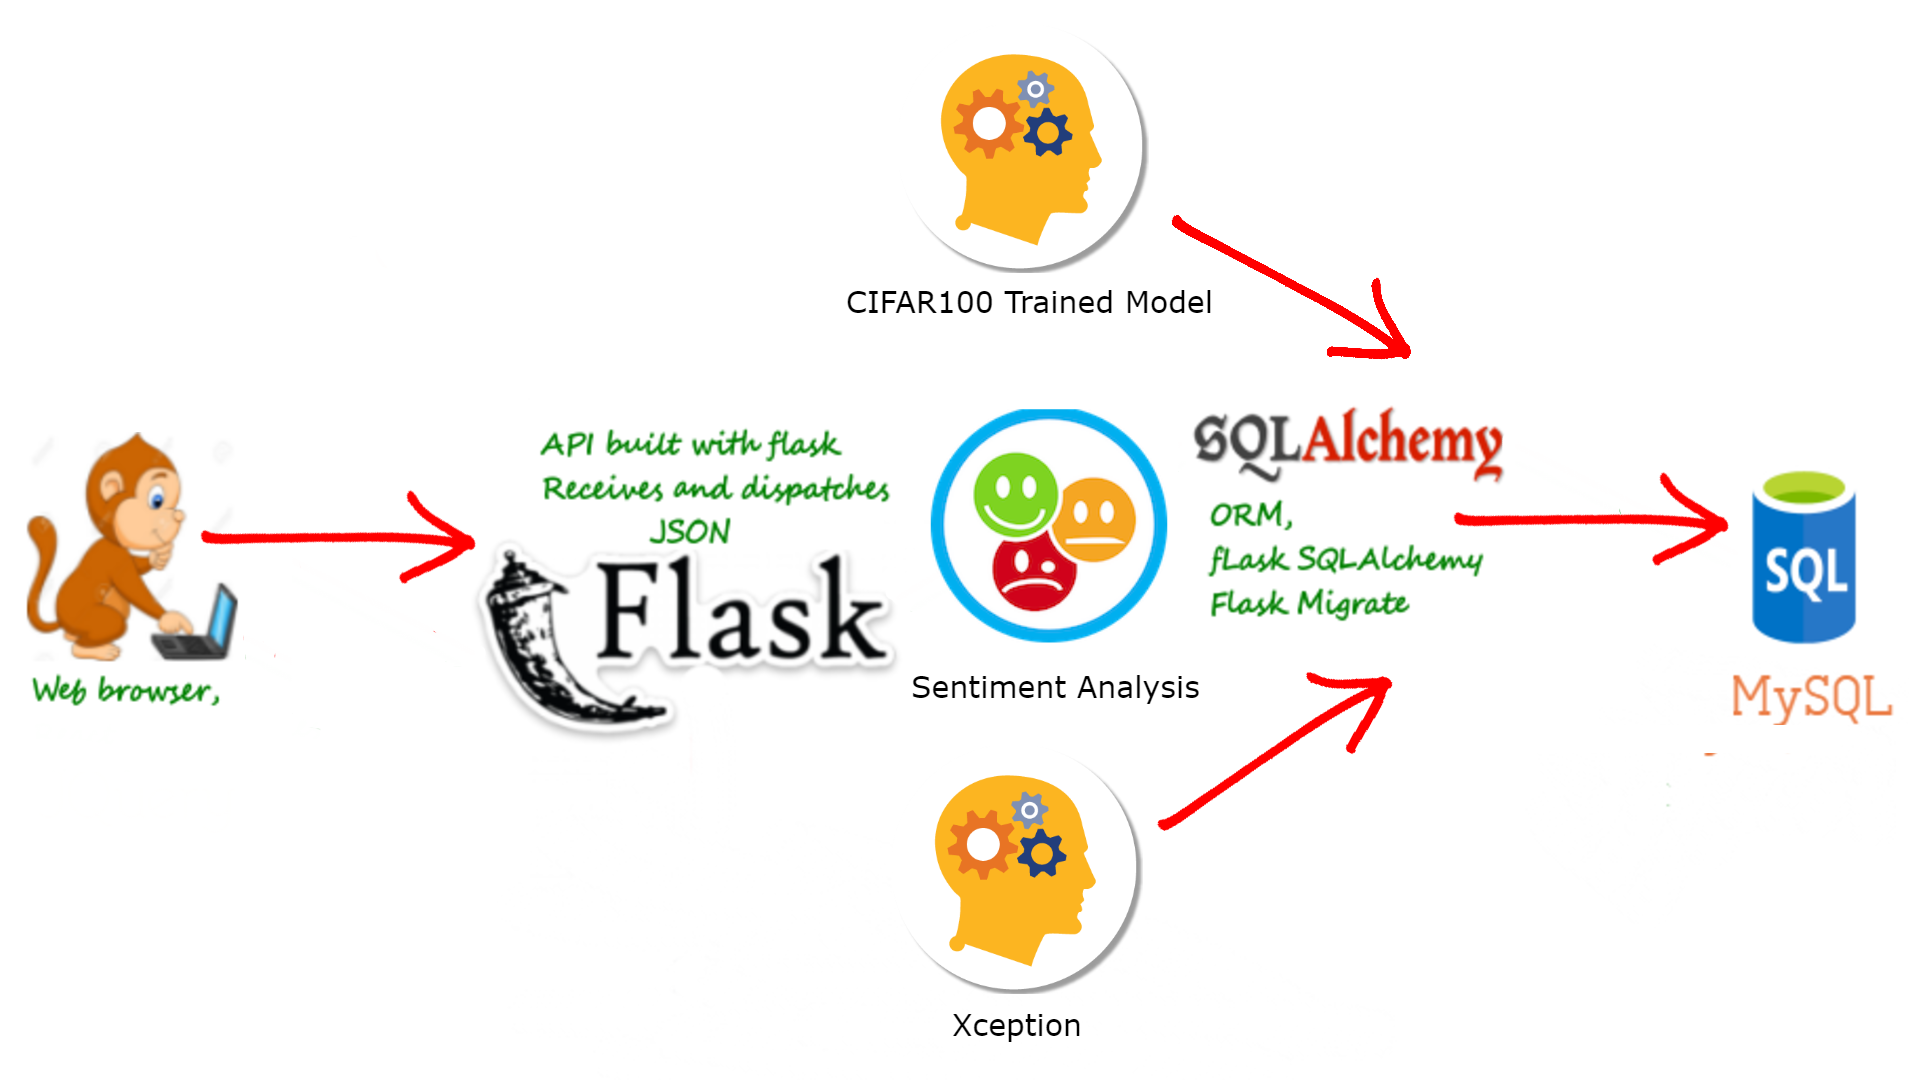
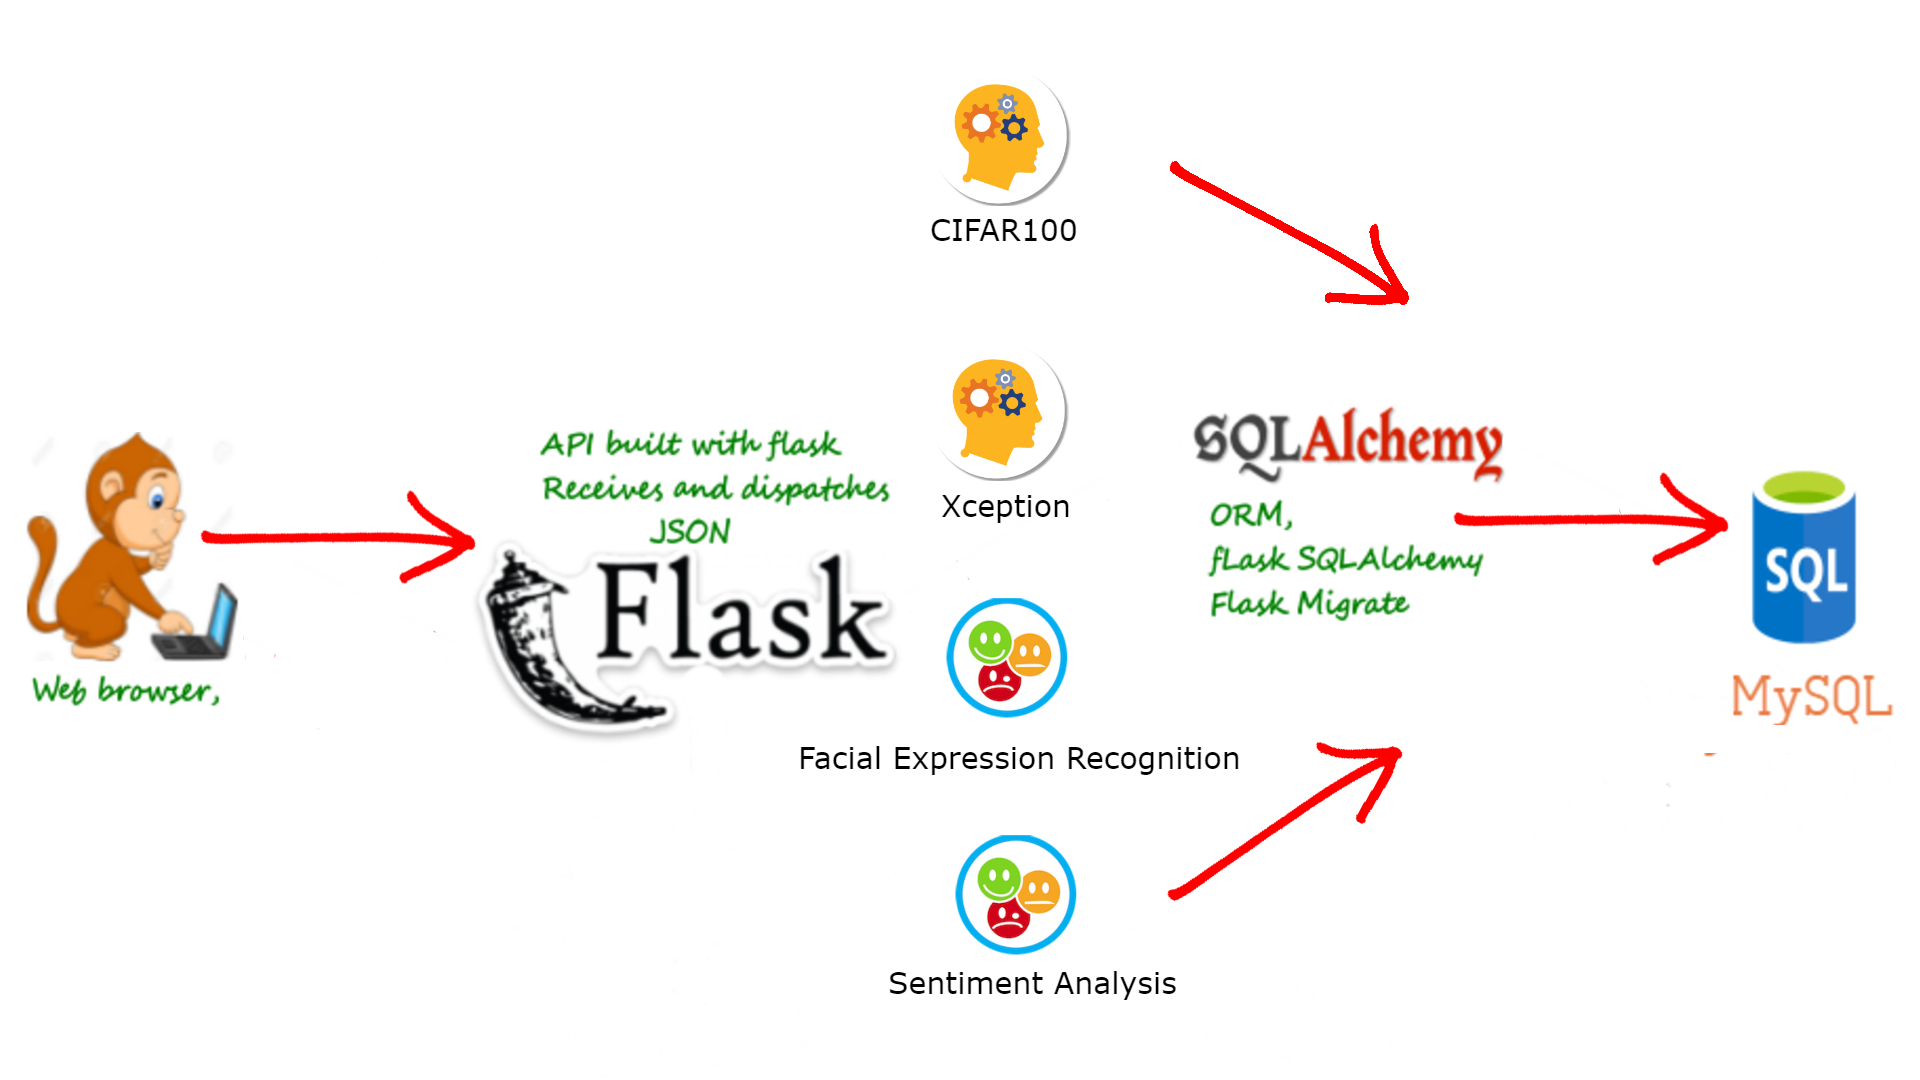
facialExpressionRecognition

Changed region(s): [[0.4375, 0.3361, 0.75, 0.9778], [0.4375, 0.0306, 0.75, 0.3361]]

diff --git a/templates/index.html b/templates/index.html
@@ -108,6 +108,8 @@
                   <span>{{ tweet.imagetypeCifar }}</span></p>
                 <p class="category">Xception:<br/>
                   <span>{{ tweet.imagetypeXception }}</span></p>
+                <p class="category">Face Emotion:<br/>
+                  <span>{{ tweet.facialEmotion }}</span></p>
 
                 <input class="btn btn-block btn-primary" type="button" value="Tweet"
                   onclick="sendTweet('{{ tweet.id }}'); return false;"

diff --git a/facialExpressionRecognition.py b/facialExpressionRecognition.py
@@ -1,0 +1,58 @@
+from keras.models import load_model
+from PIL import Image
+import cv2
+import numpy as np
+
+#Defining labels 
+class facialExpressionRecognition(object):
+    def __init__(self):
+         #Loading pre-trained model
+        self.pretrained_model = load_model("Resources/fer2013_mini_XCEPTION.99-0.65.hdf5")
+
+    def get_label(self, argument):
+        labels = {0:'Angry', 1:'Disgust', 2:'Fear', 3:'Happy', 4:'Sad' , 5:'Surprise', 6:'Neutral'}
+        return(labels.get(argument, "Invalid emotion"))
+
+    # Refactor above steps into reusable function
+    def model_predict(self, image_path):
+        
+        img = Image.open(image_path)
+        face_cascade = cv2.CascadeClassifier('resources/haarcascade_frontalface_default.xml')
+        faces = face_cascade.detectMultiScale(np.asarray(img), 1.3, 5)
+        if len(faces) < 1:return "No Face Detected"
+        for (x, y, w, h) in faces:
+            if len(faces) == 1: #Use simple check if one face is detected, or multiple (measurement error unless multiple persons on image)
+                crop_img = img.crop((x,y,x+w,y+h))
+            else:return "multiple face detected"
+        ##display(crop_img)
+        
+       
+        
+        #Resizing image to required size
+        test_image = crop_img.resize((64,64),Image.ANTIALIAS)
+
+        #Converting image to array
+        test_image = np.array(test_image)
+
+        #converting to grayscale
+        gray = cv2.cvtColor(test_image, cv2.COLOR_BGR2GRAY)
+
+        #scale pixels values to lie between 0 and 1 because we did same to our train and test set
+        gray = gray/255
+
+        #reshaping image (-1 is used to automatically fit an integer at it's place to match dimension of original image)
+        gray = gray.reshape(-1, 64, 64, 1)
+
+        res = self.pretrained_model.predict(gray)
+
+        #argmax returns index of max value
+        result_num = np.argmax(res[0])
+
+        #get emotion name
+        emotion = self.get_label(result_num)
+
+        # print predictions
+        print("\nProbabilities are " + str(res[0])+"\n")
+        print("Emotion is "+ self.get_label(result_num))
+
+        return emotion

diff --git a/app.py b/app.py
@@ -19,6 +19,7 @@ from config import *
 from cnnCifar100 import CIFAR100model
 from xceptionClassification import xceptionClassification
 from sentimentAnalysis import sentimentAnalysis
+from facialExpressionRecognition import facialExpressionRecognition
 
 import matplotlib.pyplot as plt
 from PIL import Image
@@ -56,7 +57,7 @@ def add_header(r):
 '''
 
 def init():
-    global sentiment_model,xception_model,cnn_cifar100_model
+    global sentiment_model,xception_model,cnn_cifar100_model,facial_emotion_model
     #Sentiment analysis
     sentiment_model = sentimentAnalysis()
     #Xception
@@ -64,6 +65,9 @@ def init():
     #Cifar100
     cnn_cifar100_model= CIFAR100model()
     cnn_cifar100_model.load_model()
+    
+    #Facial Emotion
+    facial_emotion_model = facialExpressionRecognition()
     
 def allowed_file(filename):
     return '.' in filename and \
@@ -129,11 +133,16 @@ def index():
                 
             #SentimentAnalysis
             sentiment_result=sentiment_model.model_predict(valtweet)
+
+            #Facial Emotion
+            facial_emotion_result=facial_emotion_model.model_predict(uploaded_img_path)
+            if facial_emotion_result=='':
+                facialEmotion='Not detected'
             
             #Insert into Tweets table
             tweet = Tweets(tweet=valtweet, tweetsentiment=sentiment_result['label'], 
                            imagename=filename,imagetypeCifar=imagetypeCifar.upper(),
-                           imagetypeXception=imagetypeXception.upper()
+                           imagetypeXception=imagetypeXception.upper(),facialEmotion = facial_emotion_result
                           )
             db.session.add(tweet)
             db.session.commit()
@@ -155,6 +164,7 @@ def index():
             tweet_dict["imagename_thumb"] = f'{filename_original}_thumb{file_extension}'
             tweet_dict["imagetypeCifar"] = tweet.imagetypeCifar
             tweet_dict["imagetypeXception"] = tweet.imagetypeXception
+            tweet_dict["facialEmotion"] = tweet.facialEmotion
             all_tweets.append(tweet_dict)
         return render_template("index.html",tweets=all_tweets)
 
